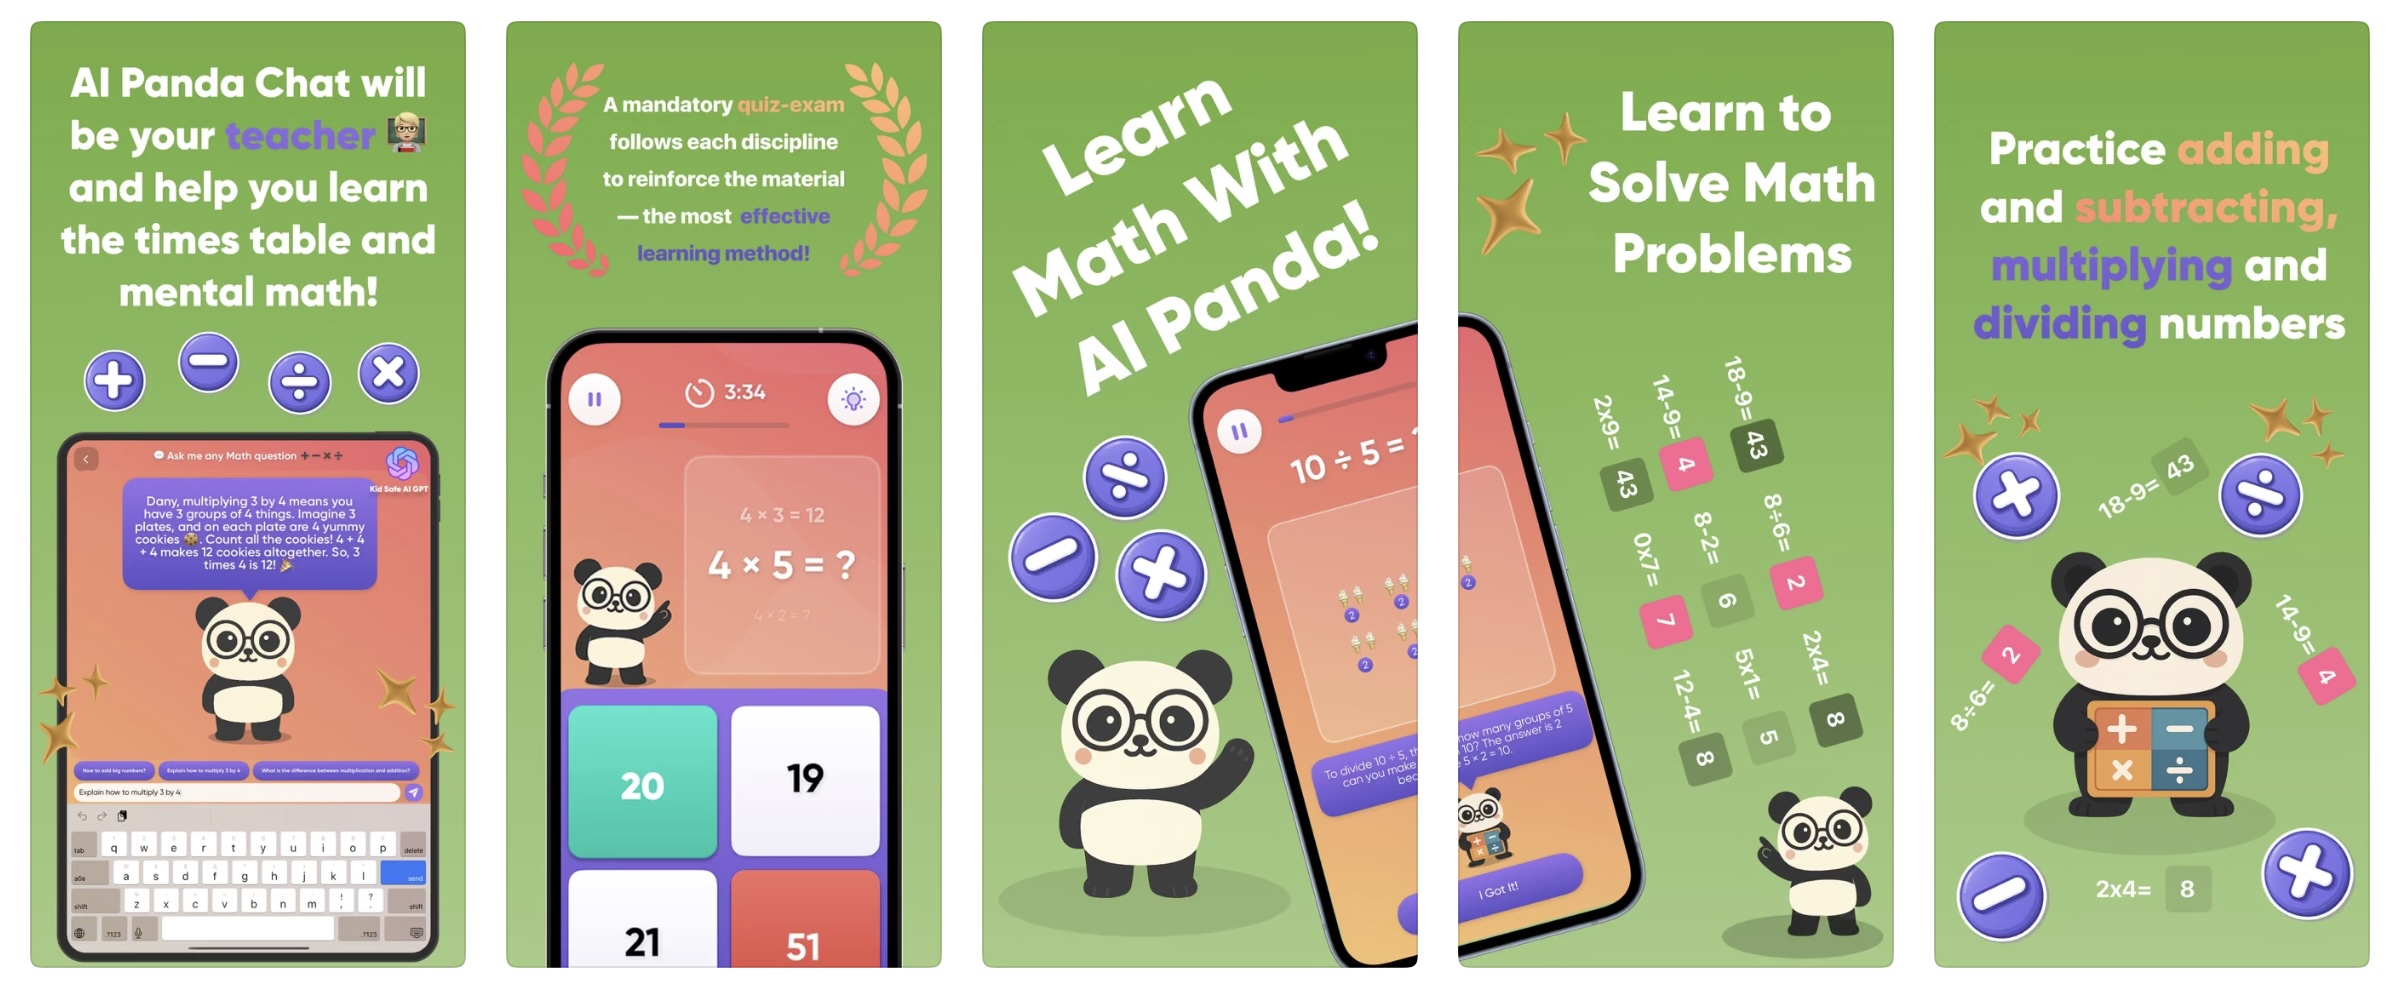
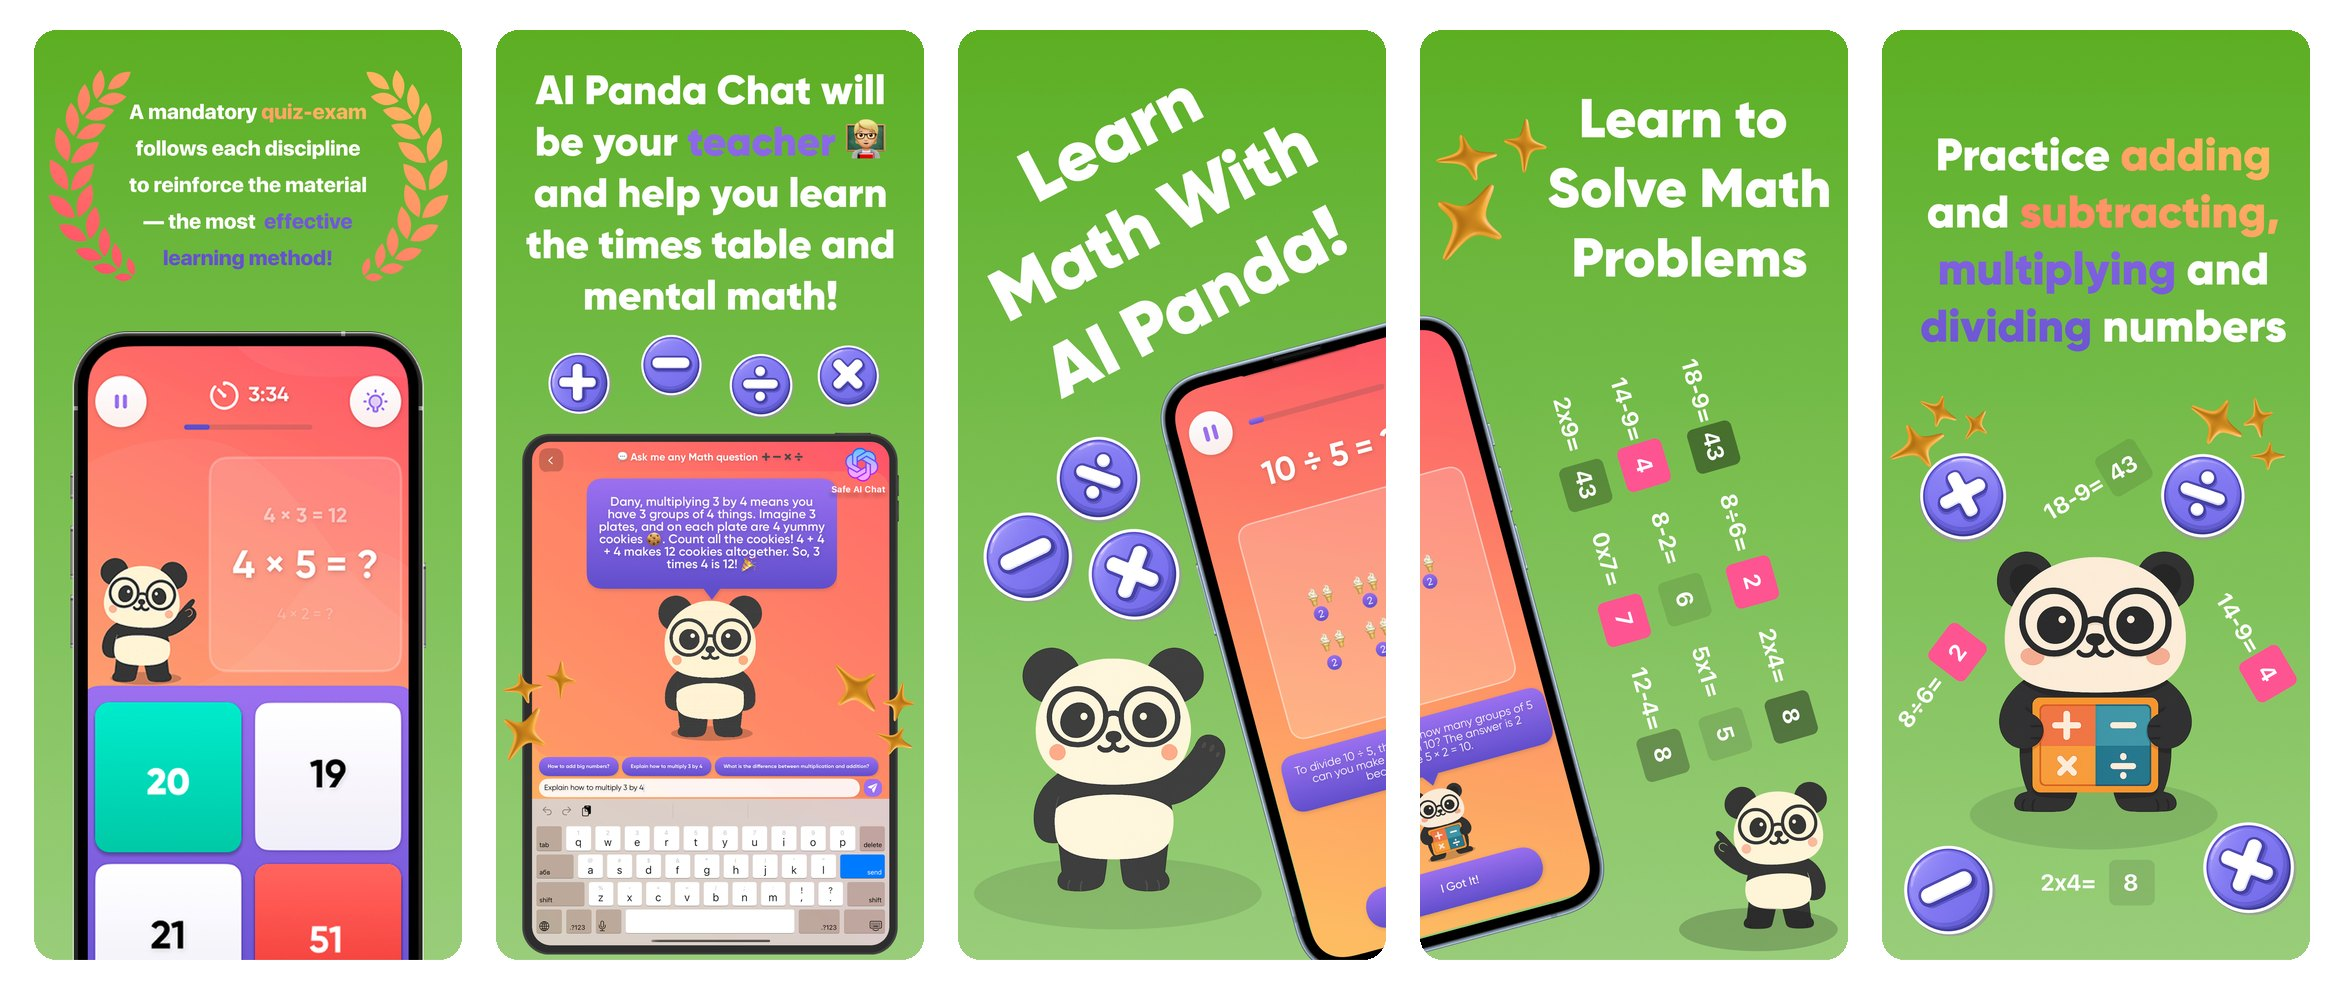
Math Games cover matches the live App Store order; cover cache version bumped

diff --git a/projects/pixero.html b/projects/pixero.html
@@ -42,7 +42,7 @@
 <main><div class="container"><article class="app-content">
 
 <nav><a href="/projects">All projects</a></nav>
-<img class="img-fluid" src="/img/works/pixero.jpg?v=20261013b" alt="Pixero: Blur, Redact, Erase BG">
+<img class="img-fluid" src="/img/works/pixero.jpg?v=20261114" alt="Pixero: Blur, Redact, Erase BG">
 <h1>On-Device Background Eraser, Scanner &amp; OCR for iPhone</h1>
 <p class="tagline">Pixero removes backgrounds, erases objects, scans documents and reads QR codes and text — every operation runs on your phone, with no cloud uploads and no account.</p>
 <p class="tagline">New: private on-device AI reads labels, answers questions about a photo and suggests what to redact. It needs iOS 27 with Apple Intelligence, and nothing is uploaded.</p>

diff --git a/projects/usage-battery.html b/projects/usage-battery.html
@@ -42,7 +42,7 @@
 <main><div class="container"><article class="app-content">
 
 <nav><a href="/projects">All projects</a></nav>
-<img class="img-fluid" src="/img/works/usagebattery.jpg?v=20261013b" alt="Usage Battery for Clode Code">
+<img class="img-fluid" src="/img/works/usagebattery.jpg?v=20261114" alt="Usage Battery for Clode Code">
 <h1>Track Clode Code Usage From Your Mac Menu Bar</h1>
 <p class="tagline">Usage Battery shows your Clode Code session, weekly and Sonnet-model usage as a color-coded battery icon that updates automatically — with an iOS companion app coming soon. It's listed on the App Store as "Usage Battery for Clode Code".</p>
 

diff --git a/projects/nostress.html b/projects/nostress.html
@@ -42,7 +42,7 @@
 <main><div class="container"><article class="app-content">
 
 <nav><a href="/projects">All projects</a></nav>
-<img class="img-fluid" src="/img/works/nostress.jpg?v=20261013b" alt="HRV Stress Tracker: NoStress">
+<img class="img-fluid" src="/img/works/nostress.jpg?v=20261114" alt="HRV Stress Tracker: NoStress">
 <h1>HRV Stress Tracker for Apple Watch, Fitbit and any device</h1>
 <p class="tagline">NoStress reads heart rate variability (HRV), resting heart rate, SpO2, sleep and respiratory rate from Apple Health, then shows your real-time stress level in one clean dashboard.</p>
 

diff --git a/projects/currency.html b/projects/currency.html
@@ -42,7 +42,7 @@
 <main><div class="container"><article class="app-content">
 
 <nav><a href="/projects">All projects</a></nav>
-<img class="img-fluid" src="/img/works/currency.jpg?v=20261013b" alt="Currency Converter: Best">
+<img class="img-fluid" src="/img/works/currency.jpg?v=20261114" alt="Currency Converter: Best">
 <h1>Currency Converter With Offline Mode and a Widget</h1>
 <p class="tagline">Currency Converter: Best converts over 170 world currencies and cryptocurrencies with live, automatically updating exchange rates — and keeps working when you're offline.</p>
 

diff --git a/projects/math-games.html b/projects/math-games.html
@@ -40,7 +40,7 @@
 <main><div class="container"><article class="app-content">
 
 <nav><a href="/projects">All projects</a></nav>
-<img class="img-fluid" src="/img/works/mathpanda.jpg?v=20261013b" alt="1st Grade Math Games: Panda">
+<img class="img-fluid" src="/img/works/mathpanda.jpg?v=20261114" alt="1st Grade Math Games: Panda">
 <h1>Math Games for 1st Grade With an AI Tutor</h1>
 <p class="tagline">Math Panda is a math tutor for kids ages 6–8. A friendly panda guides children through addition, subtraction, multiplication and division, adapting to each child's pace.</p>
 

diff --git a/script.js b/script.js
@@ -42,7 +42,7 @@ function renderBlock(container, heading, entries) {
         const projectLink = document.createElement('a');
         projectLink.href = project.page || `project?name=${key}`;
         const projectImage = document.createElement('img');
-        projectImage.src = `img/works/${project.cover || `${project.img}.jpg`}?v=20261013b`;
+        projectImage.src = `img/works/${project.cover || `${project.img}.jpg`}?v=20261114`;
         projectImage.alt = project.title;
         projectImage.loading = 'lazy';
         projectLink.appendChild(projectImage);

diff --git a/projects/sleeptracker.html b/projects/sleeptracker.html
@@ -42,7 +42,7 @@
 <main><div class="container"><article class="app-content">
 
 <nav><a href="/projects">All projects</a></nav>
-<img class="img-fluid" src="/img/works/sleeptrack.jpg?v=20261013b" alt="Snore Recorder: SleepTrack">
+<img class="img-fluid" src="/img/works/sleeptrack.jpg?v=20261114" alt="Snore Recorder: SleepTrack">
 <h1>Snore Recorder: SleepTrack</h1>
 <p class="tagline">Do you snore or talk in your sleep? Free overnight recording, a morning sleep score and a smart alarm. Nothing leaves your iPhone.</p>
 

diff --git a/projects/docuclean.html b/projects/docuclean.html
@@ -42,7 +42,7 @@
 <main><div class="container"><article class="app-content">
 
 <nav><a href="/projects">All projects</a></nav>
-<img class="img-fluid" src="/img/works/docuclean.jpg?v=20261013b" alt="PDF Scanner &amp; OCR: DocuClean">
+<img class="img-fluid" src="/img/works/docuclean.jpg?v=20261114" alt="PDF Scanner &amp; OCR: DocuClean">
 <h1>PDF Scanner &amp; OCR: DocuClean</h1>
 <p class="tagline">Scan documents, receipts and ID cards to PDF, then find any page by a word inside. No ads, no watermark.</p>
 

diff --git a/projects/glossmi.html b/projects/glossmi.html
@@ -41,7 +41,7 @@
 <main><div class="container"><article class="app-content">
 
 <nav><a href="/projects">All projects</a></nav>
-<img class="img-fluid" src="/img/works/glossmi.jpg?v=20261013b" alt="Offline AI Translator: Glossmi">
+<img class="img-fluid" src="/img/works/glossmi.jpg?v=20261114" alt="Offline AI Translator: Glossmi">
 <h1>Offline AI Translator: Glossmi</h1>
 <p class="tagline">Every word's meaning explained</p>
 

diff --git a/project.html b/project.html
@@ -117,7 +117,7 @@
 
                 const img = document.createElement('img');
                 img.className = 'img-fluid';
-                img.src = `img/works/${project.cover || `${project.img}.jpg`}?v=20261013b`;
+                img.src = `img/works/${project.cover || `${project.img}.jpg`}?v=20261114`;
                 img.alt = project.title;
                 container.appendChild(img);
 
